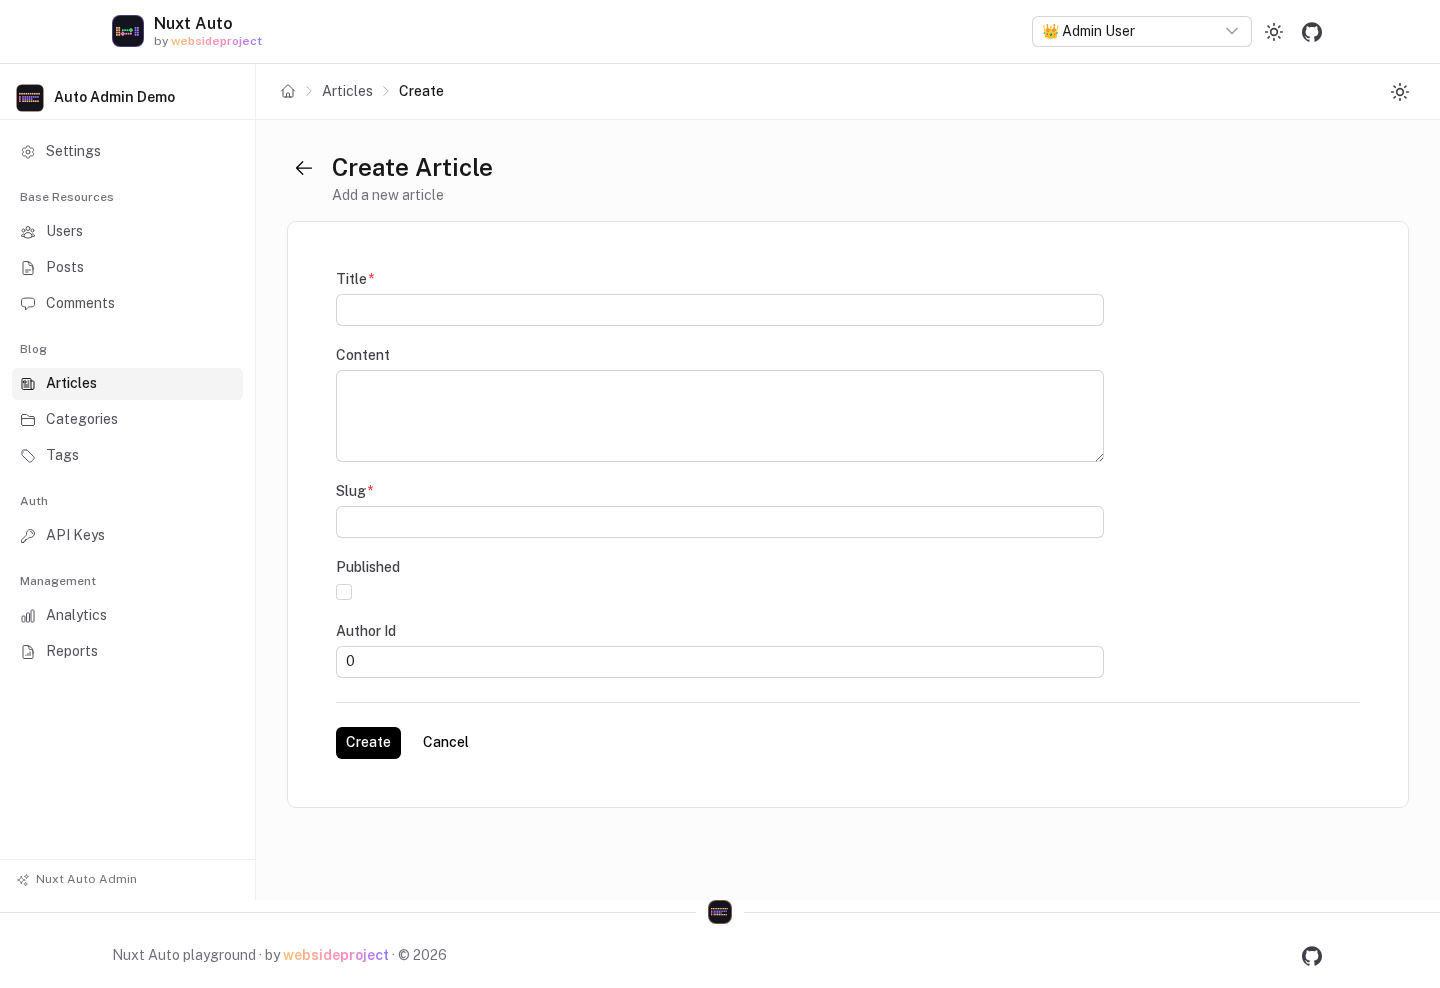
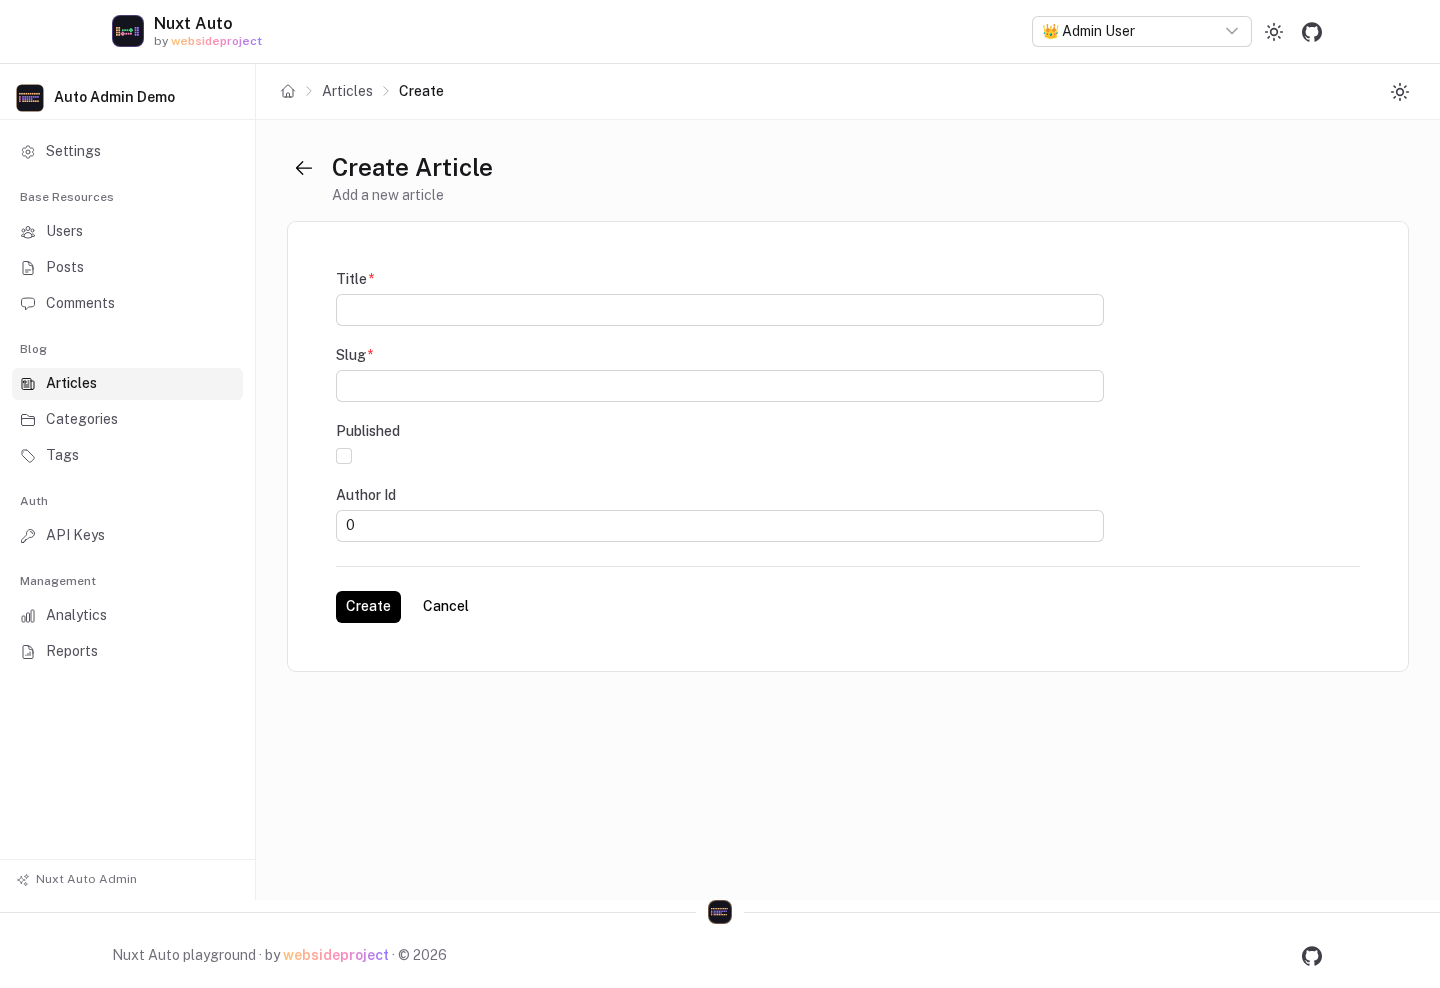
test(playground): the create form screenshot shows the content field rule

diff --git a/apps/docs/content/3.auto-admin/1.getting-started.md b/apps/docs/content/3.auto-admin/1.getting-started.md
@@ -152,7 +152,7 @@ View opens the record in a dialog (`ui.viewMode: 'modal'`, the default; `'page'`
 - Required fields marked
 - Create and Cancel buttons
 
-![The create form for articles: Title and Slug marked required, a Content textarea, a Published checkbox and an Author Id number input, with Create and Cancel buttons](/screenshots/admin-create-1440.png)
+![The create form for articles: Title and Slug marked required, a Published checkbox and an Author Id number input, with Create and Cancel buttons — the Content field appears once a title is typed (a field rule in the playground's admin.fields.ts)](/screenshots/admin-create-1440.png)
 
 ### Edit Page (`/admin/[resource]/[id]/edit`)
 - Pre-filled form with existing data
